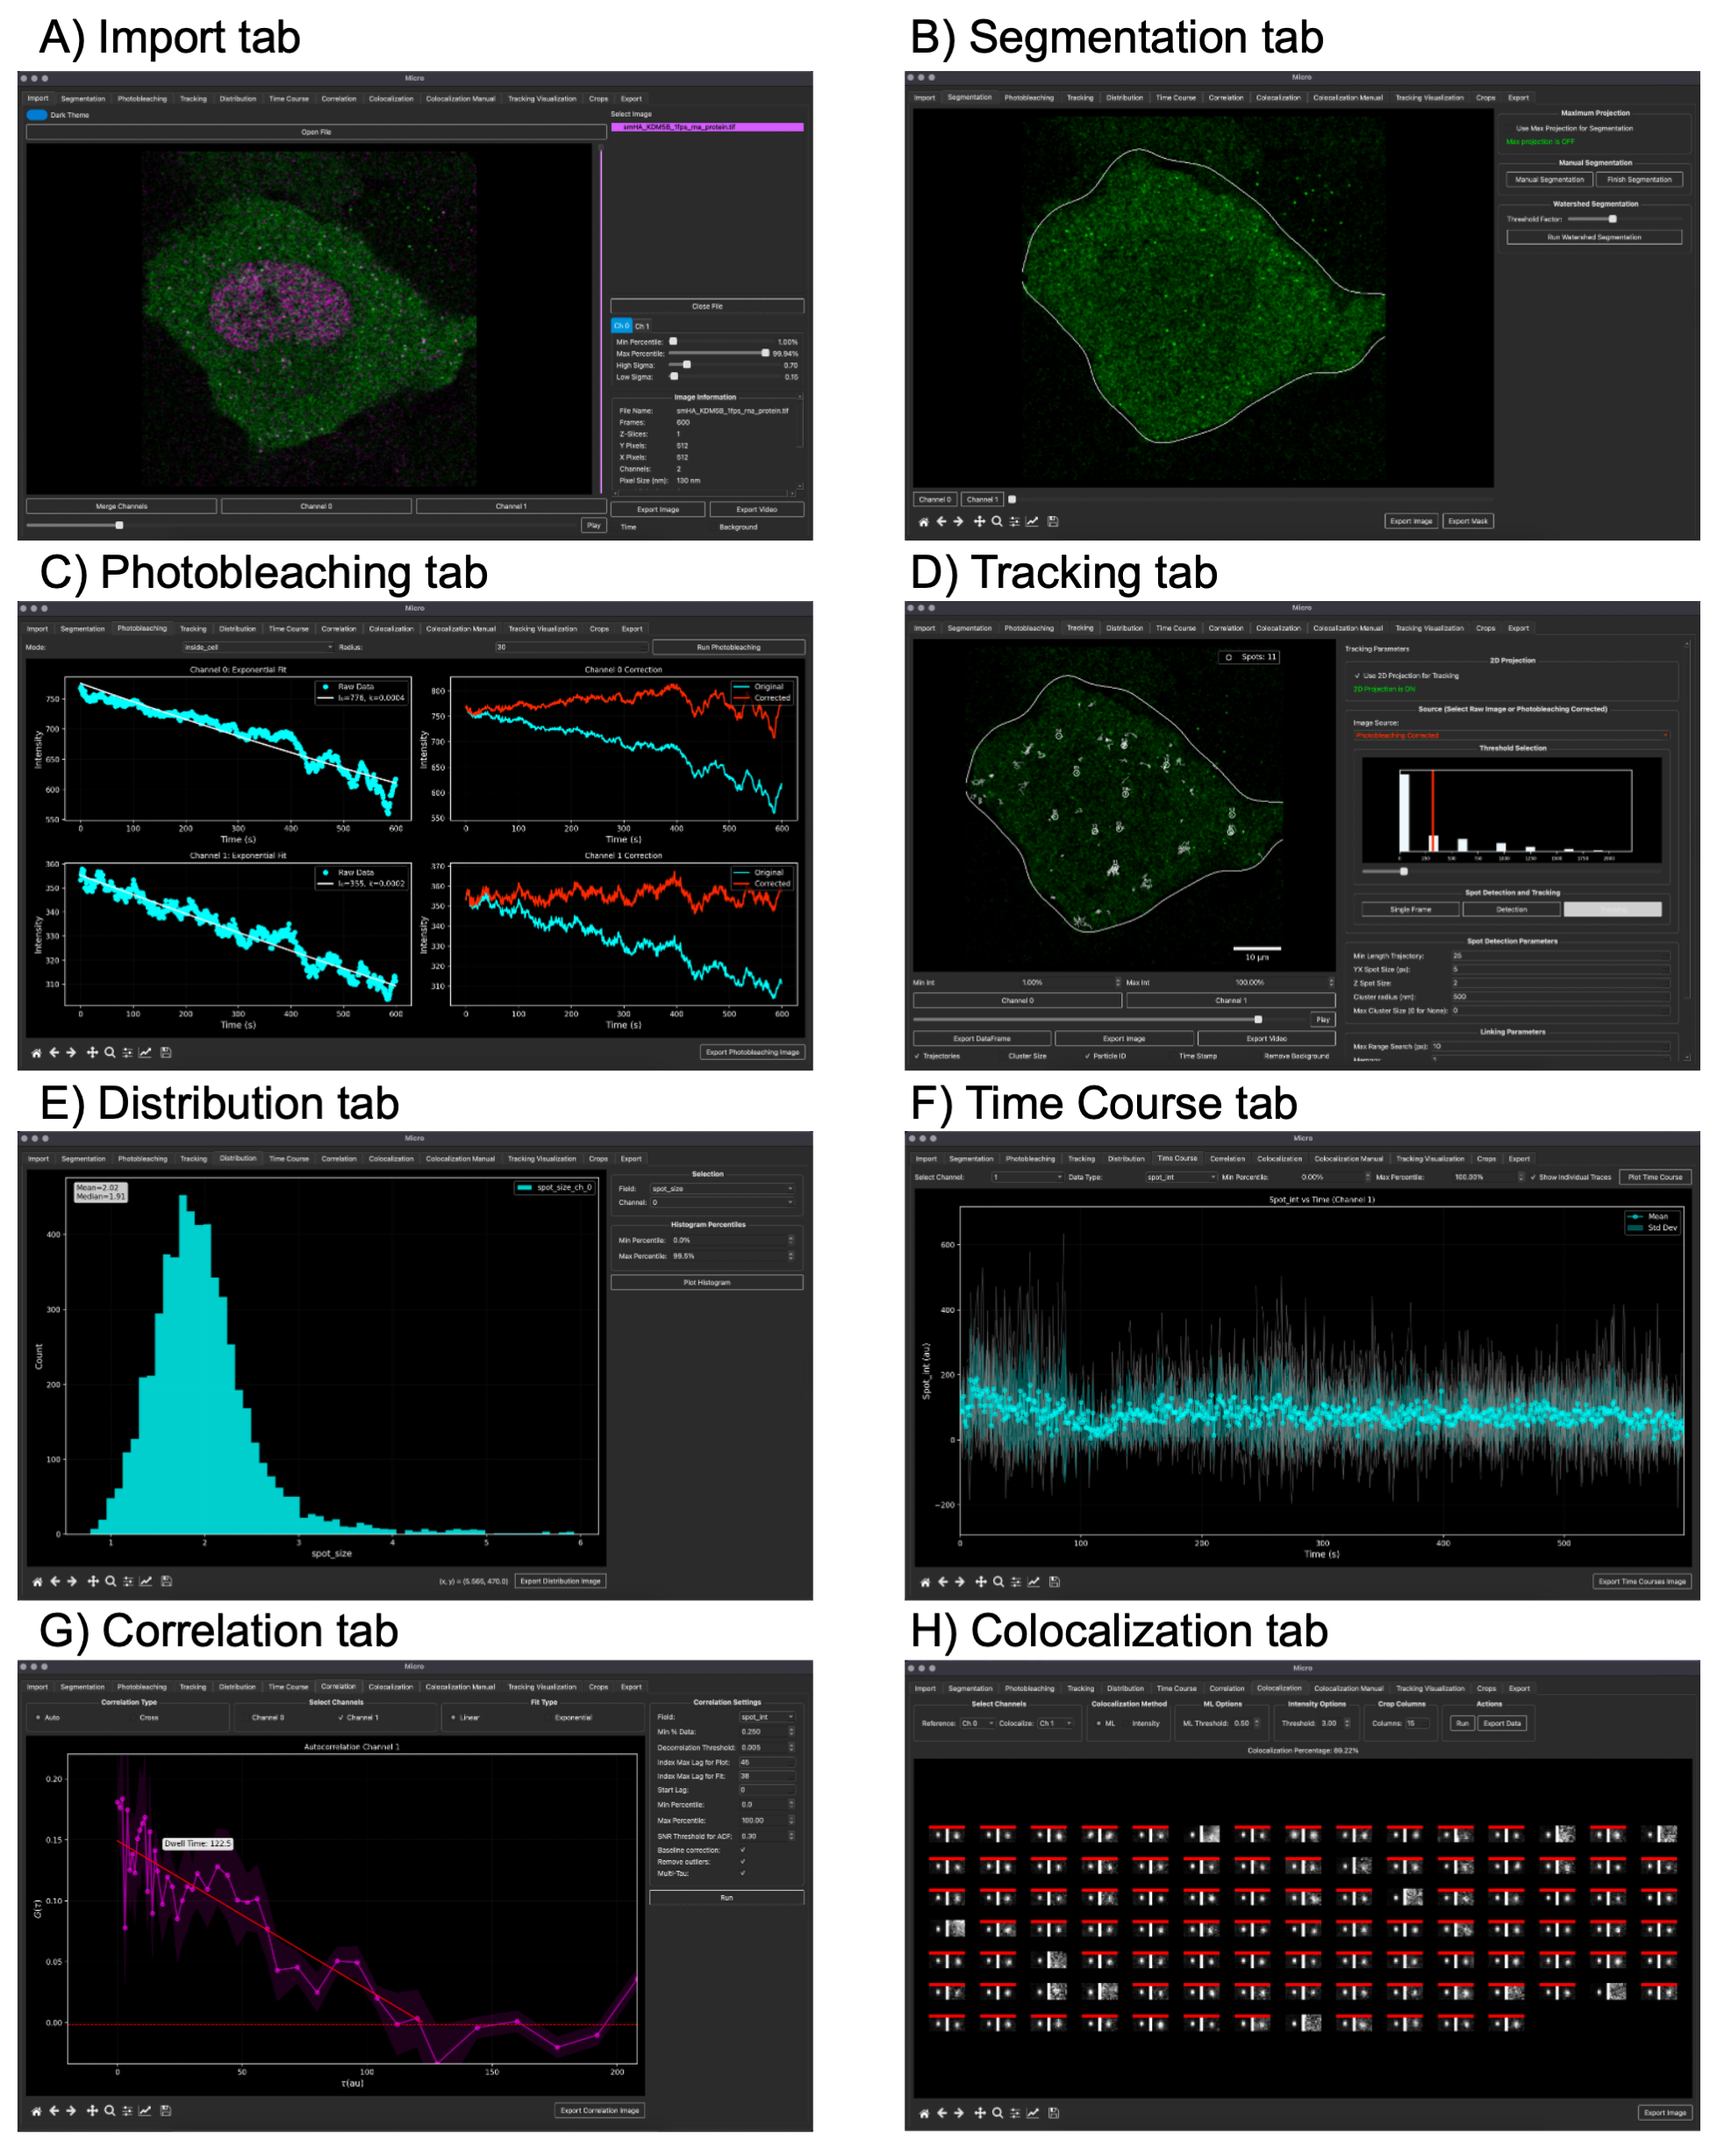
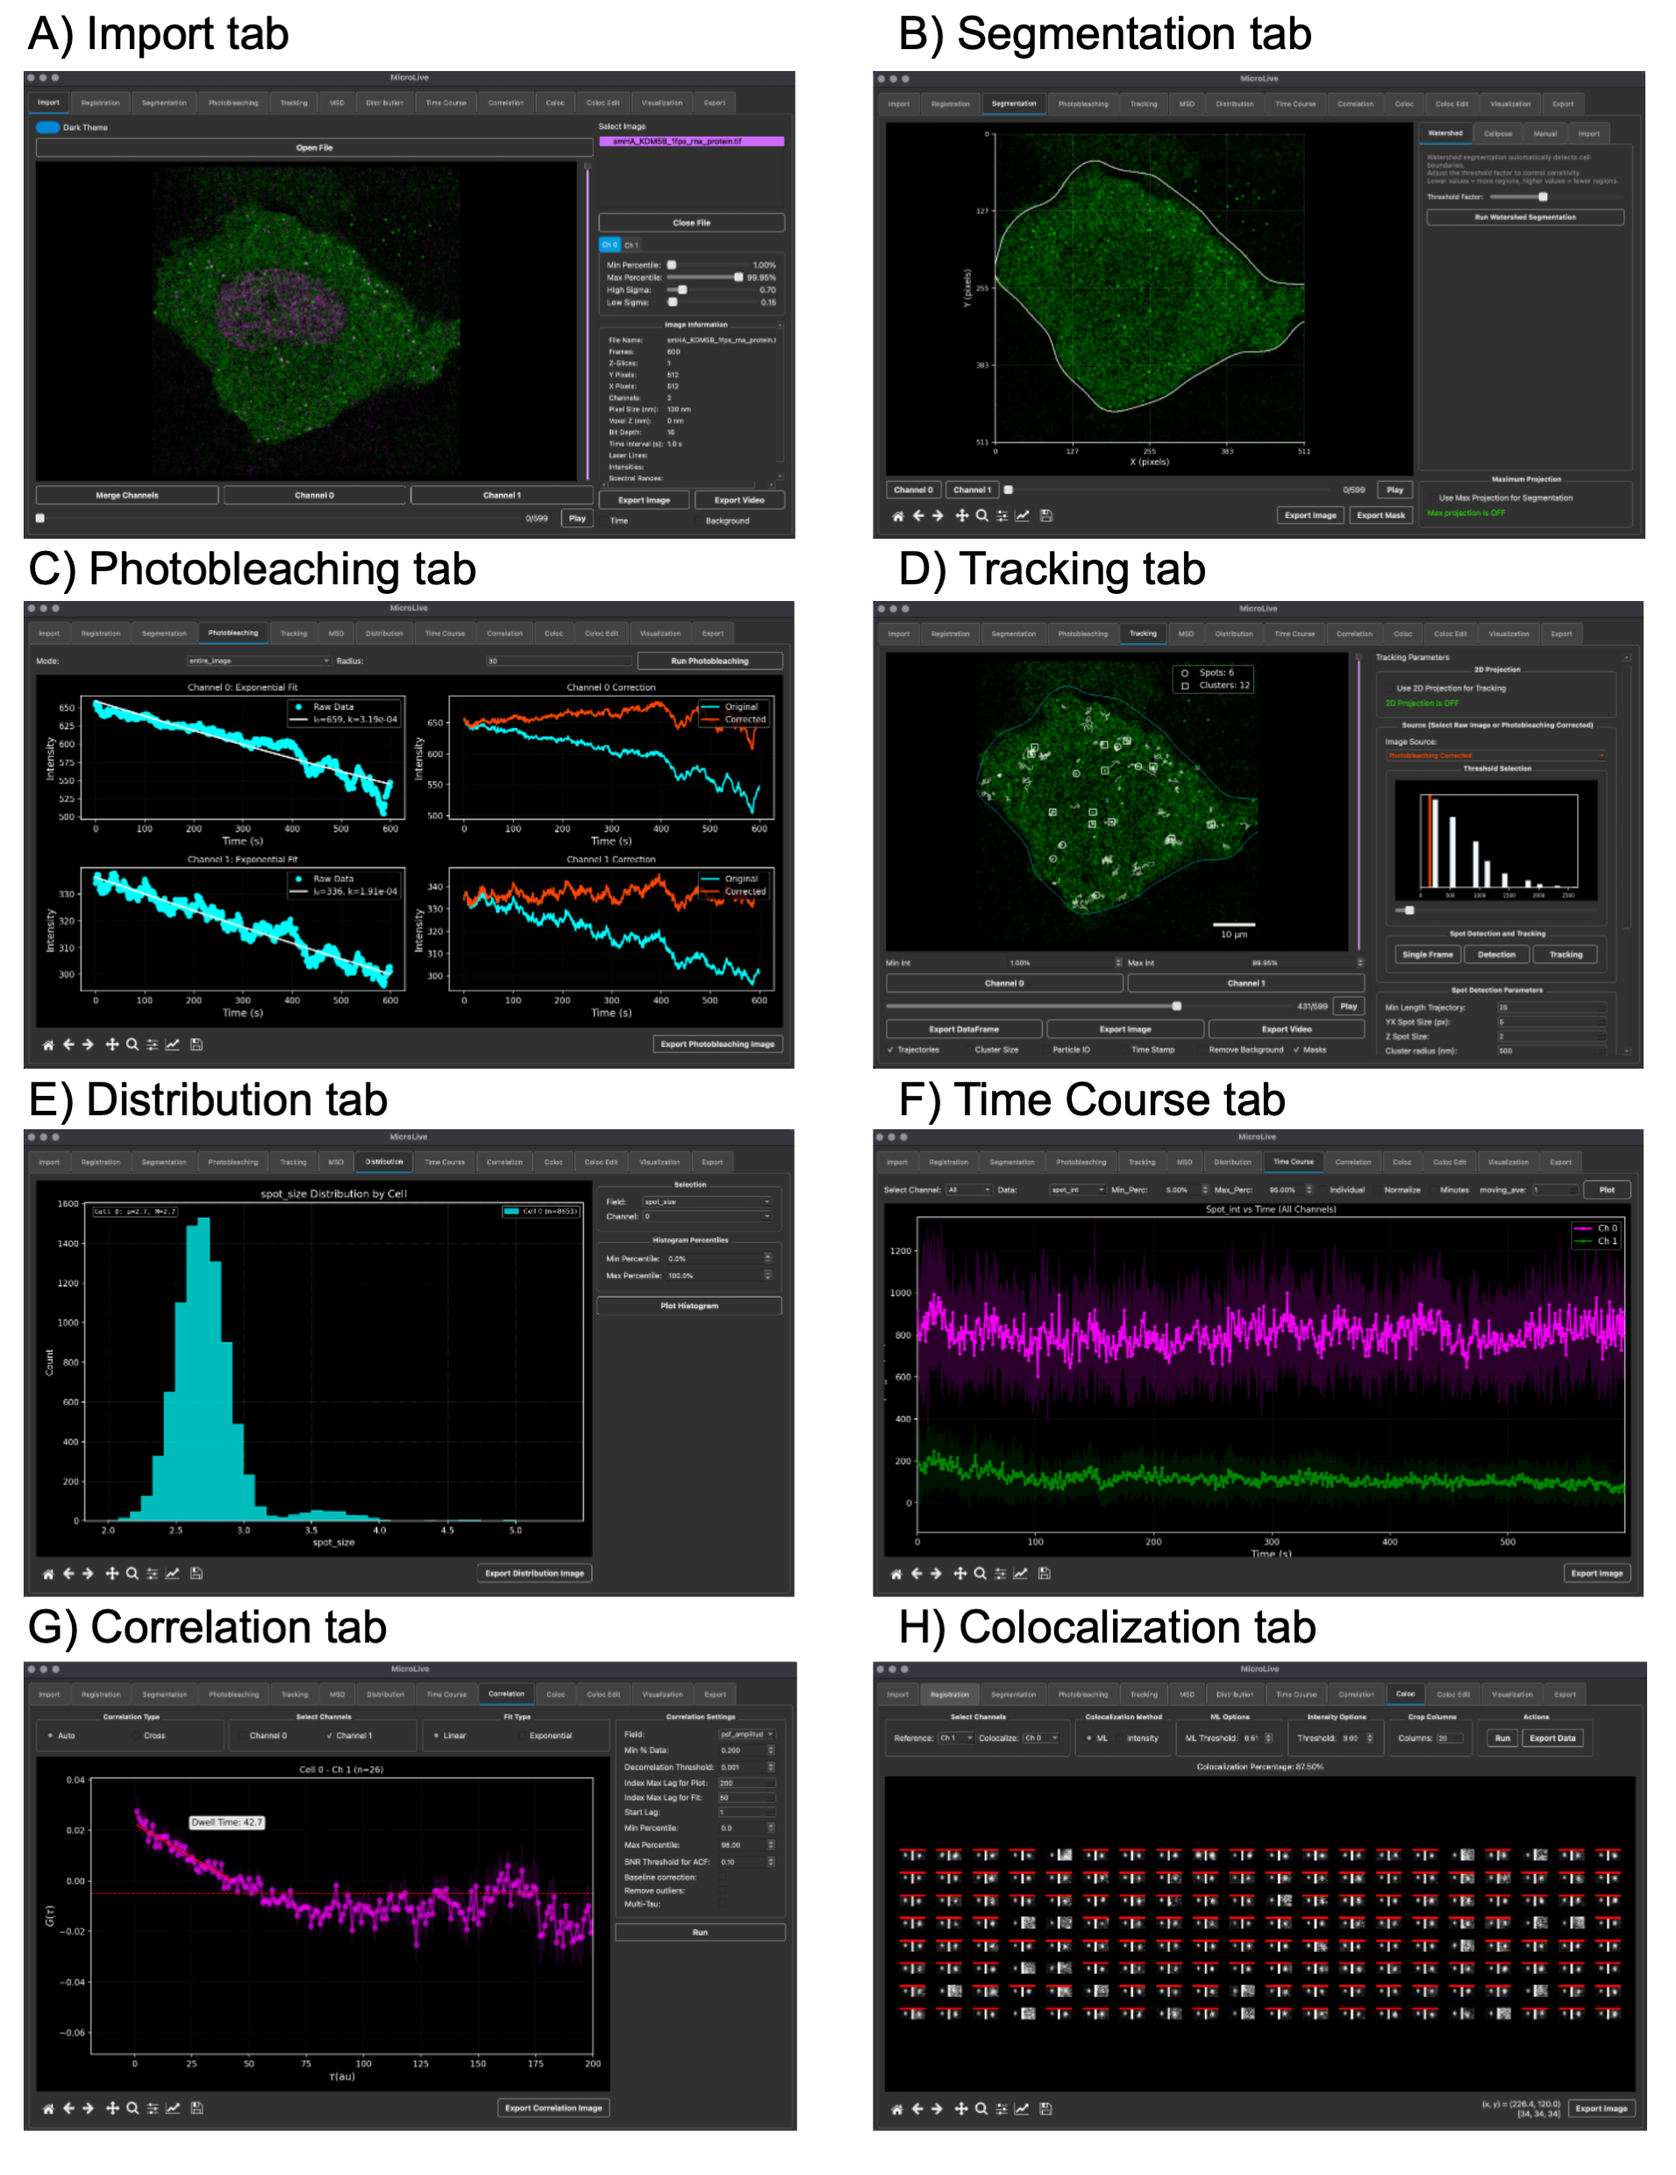
misc

diff --git a/gui/micro.py b/gui/micro.py
@@ -10711,7 +10711,7 @@ class GUI(QMainWindow):
                 # Per-cell coloring: use cell_id if available
                 cell_id = r.get('cell_id')
                 if cell_id is not None:
-                    color = list_colors_default[int(cell_id) % len(list_colors_default)]
+                    color = list_colors_default[r['channel'] % len(list_colors_default)]
                     title = f'Cell {cell_id} - Ch {r["channel"]} (n={r.get("n_trajectories", "?")})'
                 else:
                     color = list_colors_default[r['channel'] % len(list_colors_default)]
